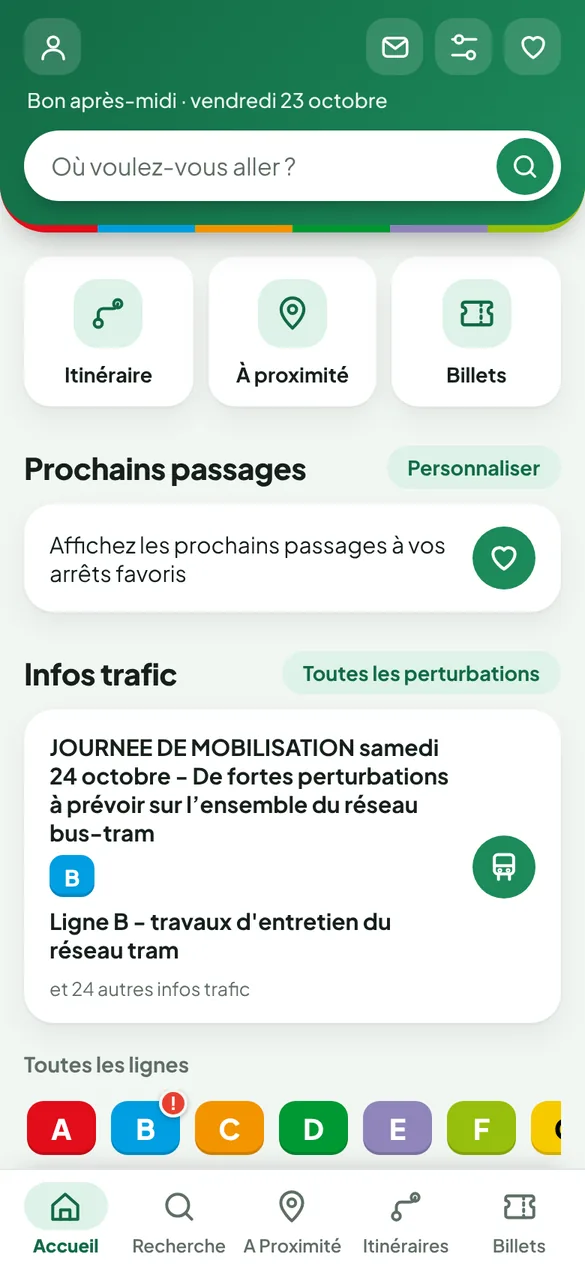
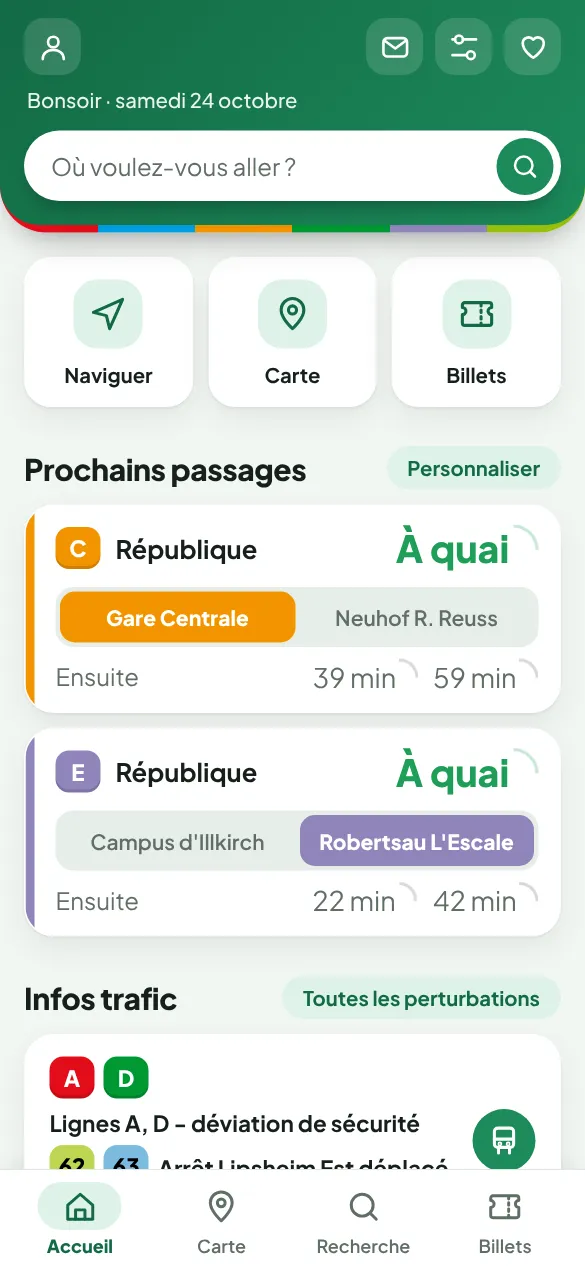
Site kumm.fr : aperçus de l'appli à jour (accueil et carte, clair et sombre) ; carte « Itinéraires » remplacée par « Trains TER »

diff --git a/vitrine/index.html b/vitrine/index.html
@@ -138,8 +138,8 @@ footer p{margin:0 0 8px}
         <p class="meta">Application indépendante, non affiliée à la CTS.</p>
       </div>
       <div class="phones" aria-label="Aperçus de l’application">
-        <div class="phone a"><picture><source srcset="/img/carte-sombre.webp" media="(prefers-color-scheme: dark)"><img src="/img/carte-clair.webp" width="585" height="1266" alt="La carte « À proximité » : arrêts, trams en circulation et prochains passages" loading="eager"></picture></div>
-        <div class="phone b"><picture><source srcset="/img/accueil-sombre.webp" media="(prefers-color-scheme: dark)"><img src="/img/accueil-clair.webp" width="585" height="1266" alt="L’accueil de Kumm : recherche, infos trafic et lignes" loading="eager"></picture></div>
+        <div class="phone a"><picture><source srcset="/img/carte-sombre.webp" media="(prefers-color-scheme: dark)"><img src="/img/carte-clair.webp" width="585" height="1266" alt="La carte : arrêts, trams et bus en circulation" loading="eager"></picture></div>
+        <div class="phone b"><picture><source srcset="/img/accueil-sombre.webp" media="(prefers-color-scheme: dark)"><img src="/img/accueil-clair.webp" width="585" height="1266" alt="L’accueil de Kumm : recherche, prochains passages aux arrêts favoris et infos trafic" loading="eager"></picture></div>
       </div>
     </div>
   </div>
@@ -153,7 +153,7 @@ footer p{margin:0 0 8px}
     <div class="features">
       <div class="f"><div class="ic"><svg viewBox="0 0 24 24" fill="none" stroke="currentColor" stroke-width="2" stroke-linecap="round" stroke-linejoin="round"><circle cx="12" cy="12" r="9"/><path d="M12 7v5l3 2"/></svg></div><h3>Passages en direct</h3><p>Les prochains trams et bus à votre arrêt, à la minute près.</p></div>
       <div class="f"><div class="ic"><svg viewBox="0 0 24 24" fill="none" stroke="currentColor" stroke-width="2" stroke-linecap="round" stroke-linejoin="round"><path d="M12 21s7-6.2 7-11.5a7 7 0 0 0-14 0C5 14.8 12 21 12 21z"/><circle cx="12" cy="9.5" r="2.5"/></svg></div><h3>Carte</h3><p>Les arrêts autour de vous et les trams et bus en circulation.</p></div>
-      <div class="f"><div class="ic"><svg viewBox="0 0 24 24" fill="none" stroke="currentColor" stroke-width="2" stroke-linecap="round" stroke-linejoin="round"><circle cx="6" cy="19" r="2.5"/><circle cx="18" cy="5" r="2.5"/><path d="M8.5 19H15a3.5 3.5 0 0 0 0-7H9a3.5 3.5 0 0 1 0-7h6.5"/></svg></div><h3>Itinéraires</h3><p>Le trajet le plus rapide jusqu’à votre destination, puis le guidage jusqu’à l’arrêt.</p></div>
+      <div class="f"><div class="ic"><svg viewBox="0 0 24 24" fill="none" stroke="currentColor" stroke-width="2" stroke-linecap="round" stroke-linejoin="round"><circle cx="6" cy="19" r="2.5"/><circle cx="18" cy="5" r="2.5"/><path d="M8.5 19H15a3.5 3.5 0 0 0 0-7H9a3.5 3.5 0 0 1 0-7h6.5"/></svg></div><h3>Trains TER</h3><p>Les départs des gares de l’Eurométropole et les TER en circulation sur la carte, avec leurs retards.</p></div>
       <div class="f"><div class="ic"><svg viewBox="0 0 24 24" fill="none" stroke="currentColor" stroke-width="2" stroke-linecap="round" stroke-linejoin="round"><path d="M18 8a6 6 0 0 0-12 0c0 7-3 9-3 9h18s-3-2-3-9"/><path d="M13.7 21a2 2 0 0 1-3.4 0"/></svg></div><h3>Alertes</h3><p>Une notification quand une de vos lignes est perturbée.</p></div>
       <div class="f"><div class="ic"><svg viewBox="0 0 24 24" fill="none" stroke="currentColor" stroke-width="2" stroke-linecap="round" stroke-linejoin="round"><path d="M12 3 2 20h20L12 3z"/><path d="M12 10v4M12 17h.01"/></svg></div><h3>Infos trafic</h3><p>Toutes les perturbations en cours sur le réseau, avec leurs dates.</p></div>
       <div class="f"><div class="ic"><svg viewBox="0 0 24 24" fill="none" stroke="currentColor" stroke-width="2" stroke-linecap="round" stroke-linejoin="round"><circle cx="5.5" cy="17" r="3.5"/><circle cx="18.5" cy="17" r="3.5"/><path d="M5.5 17 9 9h6l3.5 8M9 9l3 8h-1M14 6h2l-1 3"/></svg></div><h3>Vélhop et parkings relais</h3><p>Les vélos disponibles dans chaque station Vélhop et les places libres dans les P+R.</p></div>
